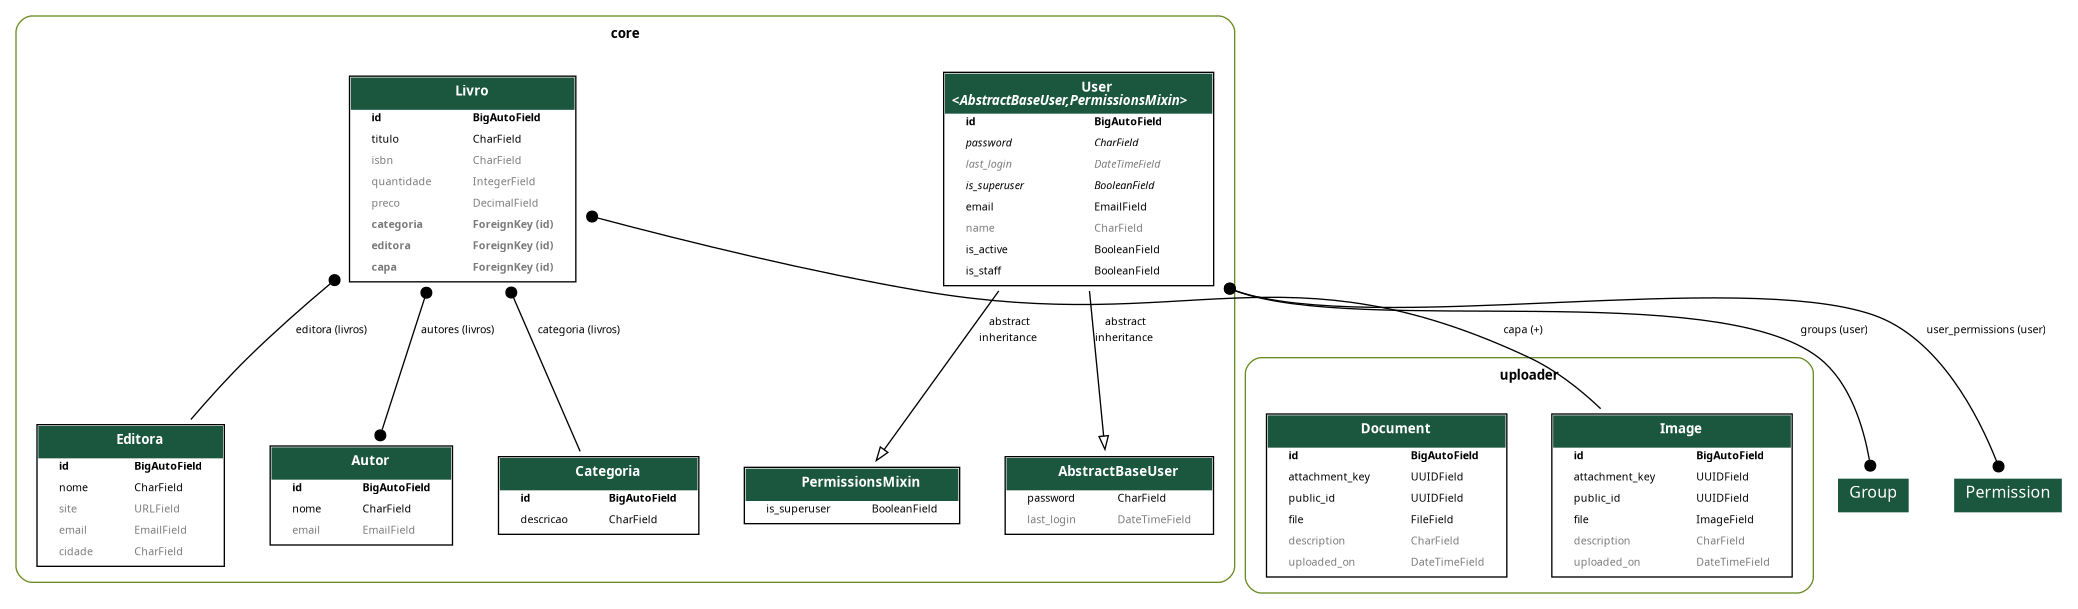
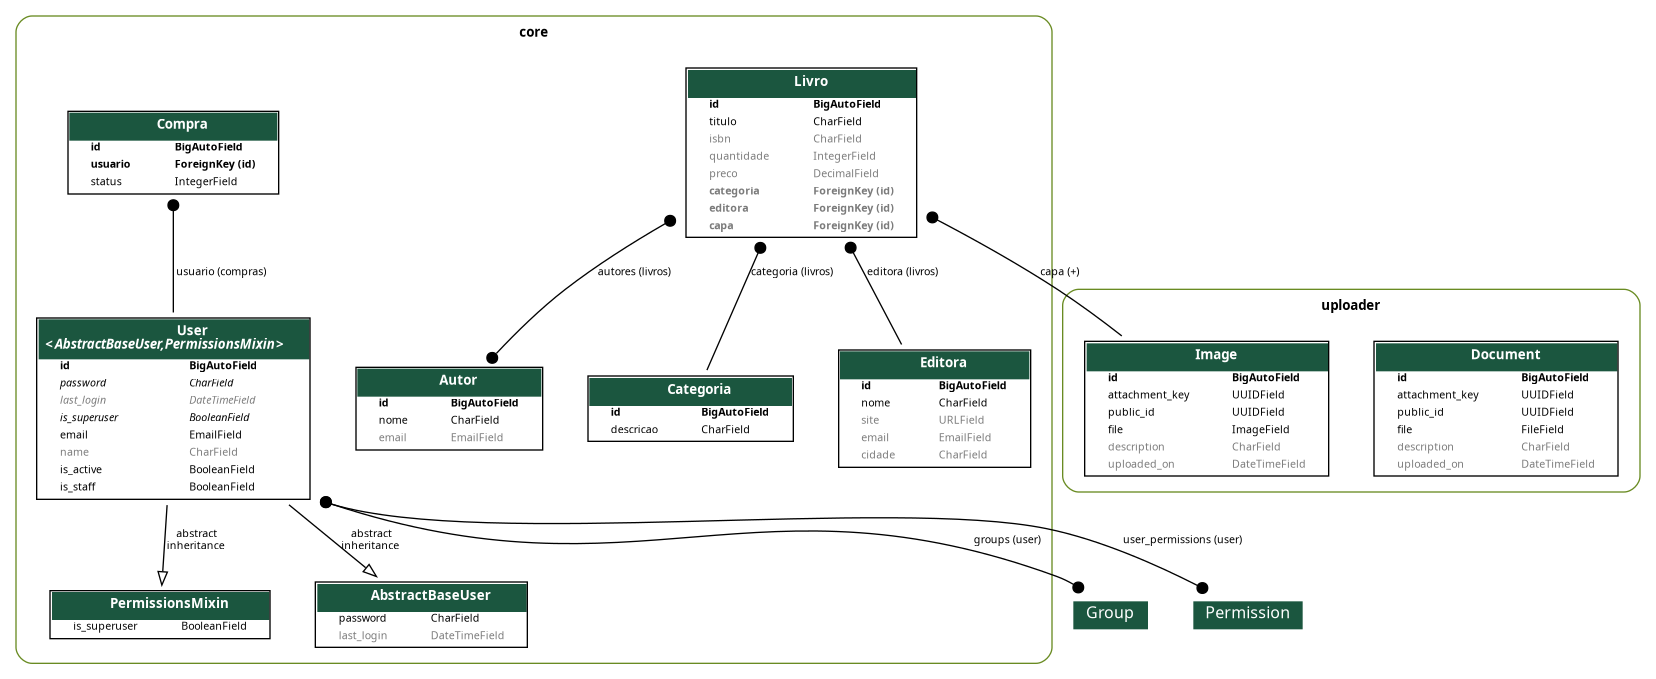
adiciona modelo Compra e registra no admin

diff --git a/core/migrations/0013_compra.py b/core/migrations/0013_compra.py
@@ -1,0 +1,23 @@
+# Generated by Django 5.2.13 on 2026-06-16 17:09
+
+import django.db.models.deletion
+from django.conf import settings
+from django.db import migrations, models
+
+
+class Migration(migrations.Migration):
+
+    dependencies = [
+        ('core', '0012_alter_livro_preco'),
+    ]
+
+    operations = [
+        migrations.CreateModel(
+            name='Compra',
+            fields=[
+                ('id', models.BigAutoField(auto_created=True, primary_key=True, serialize=False, verbose_name='ID')),
+                ('status', models.IntegerField(choices=[(1, 'Carrinho'), (2, 'Finalizado'), (3, 'Pago'), (4, 'Entregue')], default=1)),
+                ('usuario', models.ForeignKey(on_delete=django.db.models.deletion.PROTECT, related_name='compras', to=settings.AUTH_USER_MODEL)),
+            ],
+        ),
+    ]

diff --git a/core/models/compra.py b/core/models/compra.py
@@ -1,0 +1,14 @@
+from django.db import models
+
+from .user import User
+
+
+class Compra(models.Model):
+    class StatusCompra(models.IntegerChoices):
+        CARRINHO = 1, 'Carrinho'
+        FINALIZADO = 2, 'Finalizado'
+        PAGO = 3, 'Pago'
+        ENTREGUE = 4, 'Entregue'
+
+    usuario = models.ForeignKey(User, on_delete=models.PROTECT, related_name='compras')
+    status = models.IntegerField(choices=StatusCompra.choices, default=StatusCompra.CARRINHO)

diff --git a/core/admin.py b/core/admin.py
@@ -4,7 +4,7 @@ from django.contrib.admin import ModelAdmin, register
 from django.contrib.auth.admin import UserAdmin as BaseUserAdmin
 from django.utils.translation import gettext_lazy as _
 
-from core.models import Autor, Categoria, Editora, Livro, User
+from core.models import Autor, Categoria, Compra, Editora, Livro, User
 
 
 @register(Autor)
@@ -22,6 +22,13 @@ class CategoriaAdmin(ModelAdmin):
     search_fields = ('descricao',)
     list_filter = ('descricao',)
     ordering = ('descricao',)
+    list_per_page = 10
+
+
+@register(Compra)
+class CompraAdmin(ModelAdmin):
+    list_display = ('usuario', 'status')
+    ordering = ('usuario', 'status')
     list_per_page = 10
 
 

diff --git a/core/models/__init__.py b/core/models/__init__.py
@@ -3,3 +3,4 @@ from .categoria import Categoria
 from .editora import Editora
 from .livro import Livro
 from .user import User
+from .compra import Compra